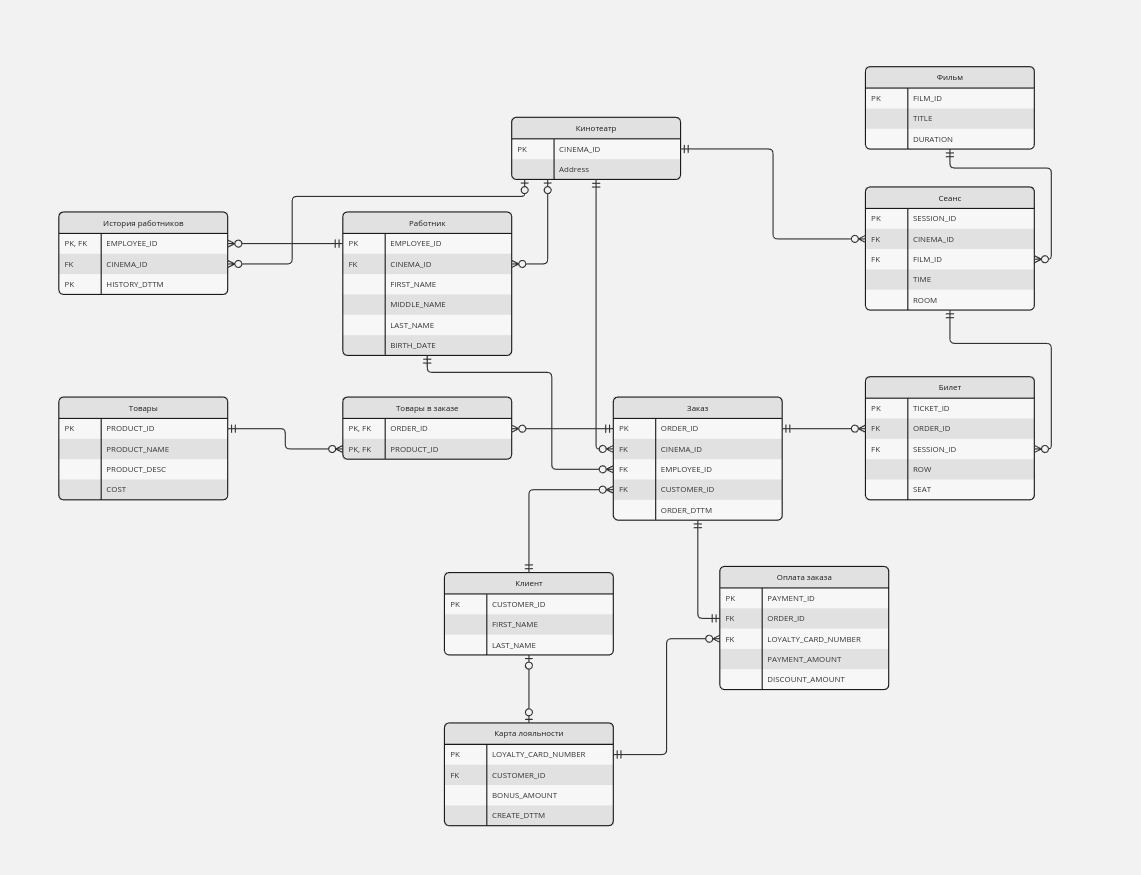
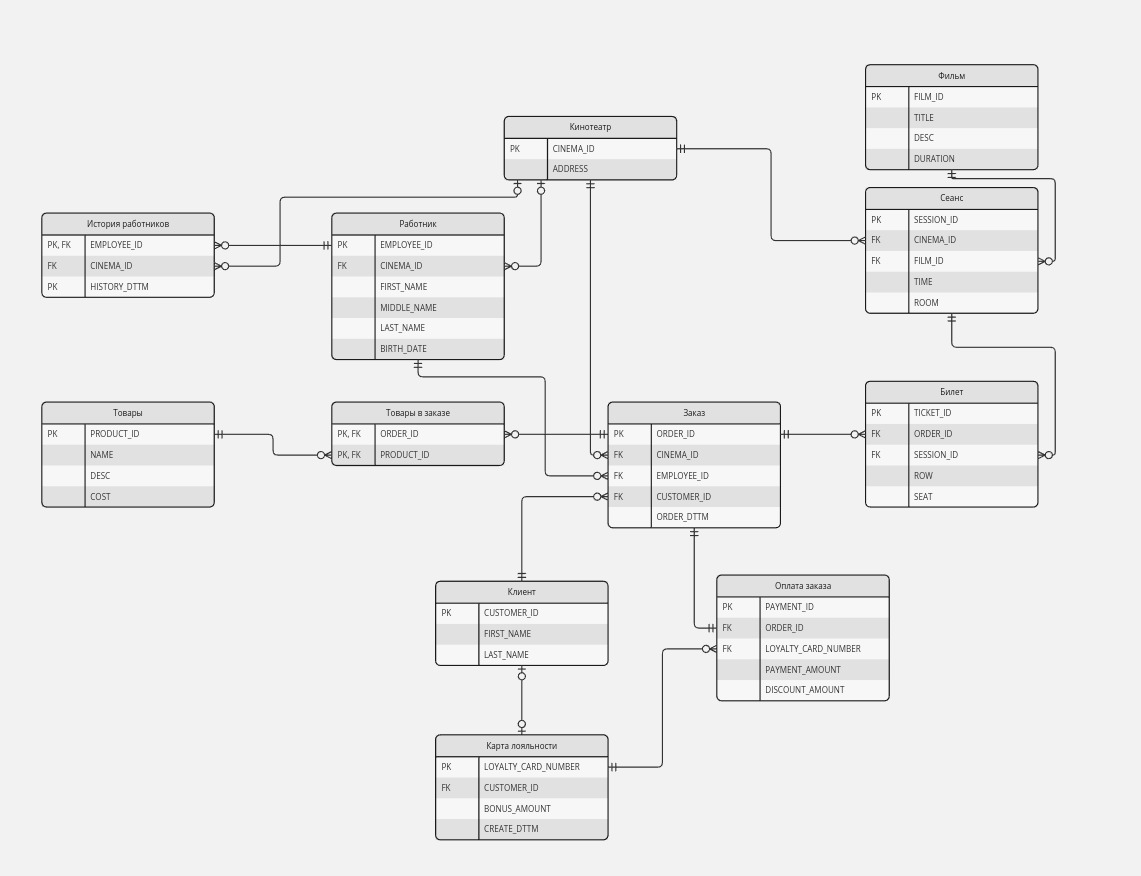
Update logical step

diff --git a/README.md b/README.md
@@ -1,25 +1,36 @@
 # Проект «Сеть кинотеатров»
 
 ## Описание проекта
-Есть много кинотеатров в разных местах. Надо хранить расписание сеансов в каждом кинотеатре, отслеживать билеты на эти сеансы и клиентов сети.
+Есть много кинотеатров в разных местах. Надо хранить расписание сеансов в каждом кинотеатре, отслеживать билеты на эти сеансы и клиентов сети. Помимо прочего хочется анализировать различные сферы работы сети, такие как эффективность работника, популярность фильмов и спрос на доп. товары 
 
 ## Описание сущностей
-Кинотеатр - один из филиалов сети, физически существует. Сущность нужна, чтобы следить за каждым кинотеатром отдельно
 
-Работник - кассиры в кинотеатрах, продающие билеты, попкорн и т.д. Сущность нужна, чтобы отслеживать работу сотрудников
+`cn.cinemas`
+Все физические филиалы сети. Хранит адрес
 
-Фильм - собственно фильм в прокате кинотеатра. Сущность нужна, чтобы отслеживать посещаемость каждого фильма
+`cn.employees`
+Хранит работников-кассиров сети - людей, которые на кассах продают билеты, попкорн и т.д. Сущность нужна, чтобы отслеживать работу сотрудников
 
-Сеанс - один конкретный показ конкретного фильма в конкретном кинотеатре. Сущность нужна, потому что люди приходят посмотреть какой-то конкретный сеанс
+`cn.films`
+Хранит самую необходимую информацию о фильмах в прокате - название, описание и длительность. Сущность нужна, чтобы отслеживать посещаемость каждого фильма
 
-Билет - купленное место на конкретном сеансе. Сущность нужна, потому что термин "свободная рассадка" немного сбивает с толку людей
+`cn.sessions`
+Сеанс (лучшего перевода не знаю) - один конкретный показ конкретного фильма в конкретном кинотеатре в конкретное время в конкретном зале. Все конкретно. Минимальная единица расписания кинотеатра, люди покупают билеты именно на сеансы
 
-Клиент - человек, который что-то купил на кассе. Сущность нужна, чтобы следить за клиентской базой
+`cn.tickets`
+Хранит закрепленное за каким-то зрителем место на сеансе. Сущность нужна, потому что термин "свободная рассадка" немного сбивает с толку людей
 
-Карта лояльности - клиенты хотят бонусы, на картах бонусы есть. Сущность нужна, чтобы хранить бонусы клиентов
+`cn.clients`
+Совершивший покупку и опознавший себя человек. Чаще всего нужно для покупок исключительно онлайн: на кассах люди не всегда опознают себя (да и не нужно это). Сущность нужна, чтобы отслеживать интересы конкретного клиента
 
-Товары - попкорн, напитки, начос и т.д. (все, что можно для кайфа купить перед сеансом). Сущность нужна, чтобы отслеживать популярность каждого товара
+`cn.loyalty_cards`
+Клиенты хотят бонусы, на картах бонусы есть. Карта хранит количество бонусов. Каждая карта закреплена за конкретным клиентов, исключение составляют только карты, которые еще не попали на руки к зрителю (т.е. те, что обычно на кассах раздают). Сущность нужна, потому что надо следить за бонусами
 
-Заказ - человек подошел на кассу, купил билеты и еду, получился заказ. Сущность нужна, чтобы связать все остальное воедино
+`cn.products`
+Ништяки на кассе: попкорн, напитки, начос и т.д. Хранит название, описание и цену. Ничего лишнего. Сущность нужна, чтобы отслеживать популярность каждого товара
 
-Оплата - сумма заказа, способ оплаты и т.д. (техническая информация по заказу). Сущность нужна, потому что перед налоговой отчитываться надо
+`cn.orders`
+Человек подошел на кассу, купил билеты и еду, получился заказ. Минимальная единица оплаты всех услуг кинотеатра. Связывает все остальные сущности воедино.
+
+`cn.payment`
+Сущность для разделения информации об оплате заказа. По сути прочно связана с заказом один-к-одному. Но за ненадобностью такой специфической информации в среднем, вынесена в отдельную сущность.
